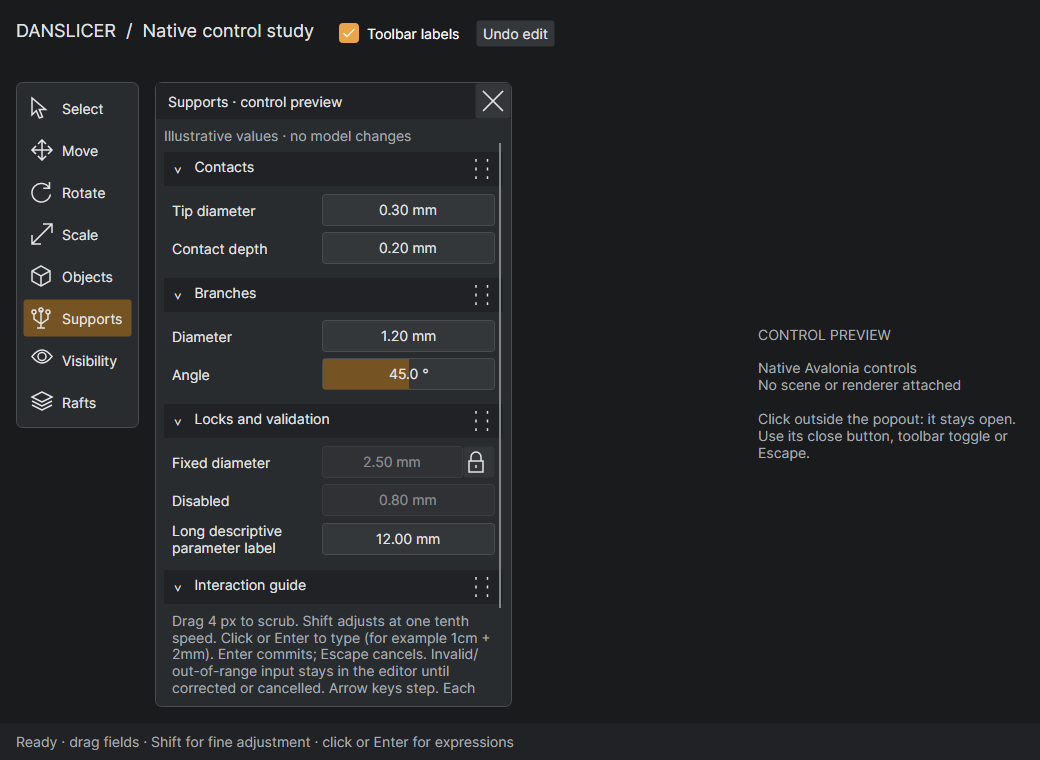
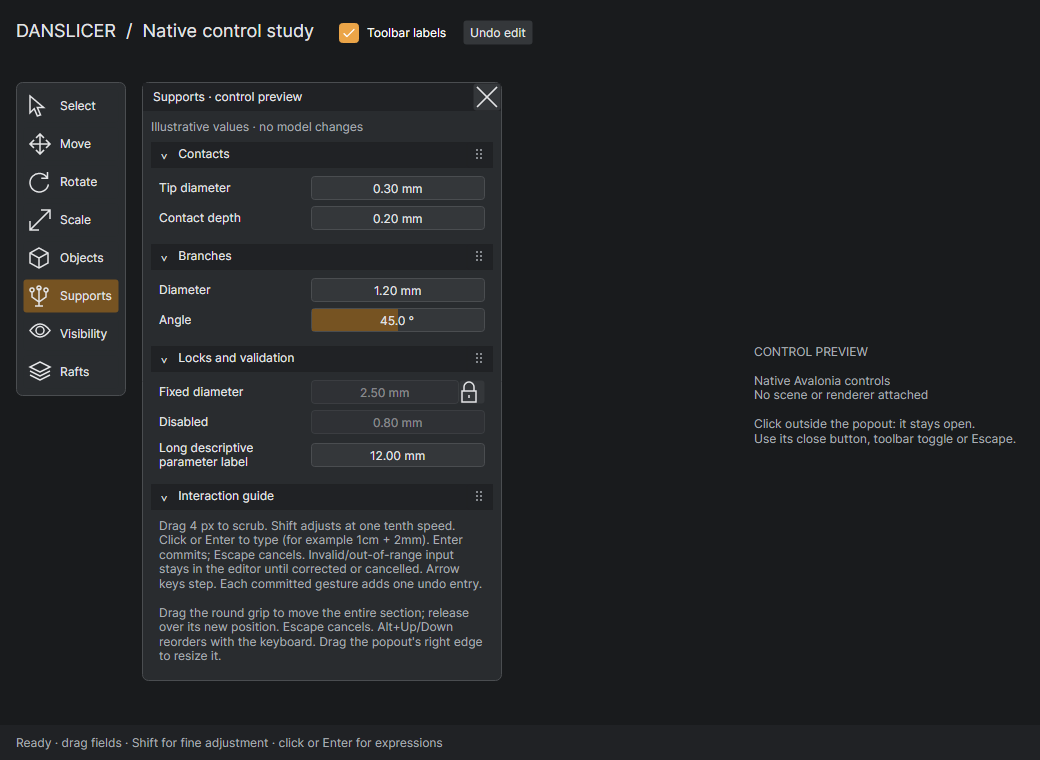
feat(ui): compact controls and add popout resizing and live expander drag

diff --git a/src/Danslicer.App/Views/UiPreviewWindow.cs b/src/Danslicer.App/Views/UiPreviewWindow.cs
@@ -24,7 +24,7 @@ public sealed class UiPreviewWindow : Window
     public UiPreviewWindow(string? captureDirectory = null)
     {
         Title = "Danslicer · UI controls preview"; Width = 1040; Height = 760; MinWidth = 480; MinHeight = 400;
-        Background = RefreshPalette.Canvas; Foreground = RefreshPalette.Text;
+        Background = RefreshPalette.Canvas; Foreground = RefreshPalette.Text; FontSize = 12;
         Resources = RefreshPalette.CreateResources();
         var root = new Grid { RowDefinitions = new RowDefinitions("Auto,*,Auto"), Background = RefreshPalette.Canvas };
         var top = new WrapPanel { Margin = new Thickness(16), Orientation = Orientation.Horizontal };
@@ -47,9 +47,16 @@ public sealed class UiPreviewWindow : Window
             Margin = new Thickness(24), Foreground = RefreshPalette.Muted, TextWrapping = TextWrapping.Wrap, MaxWidth = 270,
             IsHitTestVisible = false
         });
-        var overlay = new Grid { ColumnDefinitions = new ColumnDefinitions("Auto,*"), HorizontalAlignment = HorizontalAlignment.Left, MaxWidth = 560 };
+        var overlay = new Grid { ColumnDefinitions = new ColumnDefinitions("Auto,*"), HorizontalAlignment = HorizontalAlignment.Stretch };
         overlay.Children.Add(_toolbar); Grid.SetColumn(_popout, 1); overlay.Children.Add(_popout); viewport.Children.Add(overlay);
-        viewport.SizeChanged += (_, _) => { overlay.MaxWidth = viewport.Bounds.Width; _toolbar.MaxHeight = Math.Max(0, viewport.Bounds.Height - 32); _popout.MaxHeight = Math.Max(0, viewport.Bounds.Height - 32); };
+        void ConstrainPopout()
+        {
+            var available = Math.Max(0, viewport.Bounds.Width - _toolbar.Bounds.Width - 48);
+            _popout.MinWidth = Math.Min(240, available); _popout.MaxWidth = available;
+            _toolbar.MaxHeight = Math.Max(0, viewport.Bounds.Height - 32); _popout.MaxHeight = Math.Max(0, viewport.Bounds.Height - 32);
+        }
+        viewport.SizeChanged += (_, _) => ConstrainPopout();
+        _toolbar.SizeChanged += (_, _) => ConstrainPopout();
         foreach (var (id, label, icon) in new[] { ("select", "Select", "select"), ("move", "Move", "move"), ("rotate", "Rotate", "rotate"), ("scale", "Scale", "scale"), ("objects", "Objects", "objects"), ("supports", "Supports", "supports"), ("visibility", "Visibility", "visibility"), ("rafts", "Rafts", "rafts") })
         {
             _toolbar.AddTool(new RefreshTool(id, label, icon, () =>
@@ -77,7 +84,7 @@ public sealed class UiPreviewWindow : Window
         locks.Children.Add(Row("Disabled", disabled));
         locks.Children.Add(Row("Long descriptive parameter label", Field(12, -100, 100)));
         var help = Section("help", "Interaction guide");
-        help.Children.Add(new TextBlock { Text = "Drag 4 px to scrub. Shift adjusts at one tenth speed. Click or Enter to type (for example 1cm + 2mm). Enter commits; Escape cancels. Invalid/out-of-range input stays in the editor until corrected or cancelled. Arrow keys step. Each committed gesture adds one undo entry.\n\nDrag a section's right grip up/down to move one position. Focus the grip and use Alt+Up/Down with the keyboard.", TextWrapping = TextWrapping.Wrap, Foreground = RefreshPalette.Muted });
+        help.Children.Add(new TextBlock { Text = "Drag 4 px to scrub. Shift adjusts at one tenth speed. Click or Enter to type (for example 1cm + 2mm). Enter commits; Escape cancels. Invalid/out-of-range input stays in the editor until corrected or cancelled. Arrow keys step. Each committed gesture adds one undo entry.\n\nDrag the round grip to move the entire section; release over its new position. Escape cancels. Alt+Up/Down reorders with the keyboard. Drag the popout's right edge to resize it.", TextWrapping = TextWrapping.Wrap, Foreground = RefreshPalette.Muted });
         _popout.Body = body;
         var footer = new Border { Background = RefreshPalette.Header, Padding = new Thickness(16, 10), Child = _status };
         Grid.SetRow(footer, 2); root.Children.Add(footer); Content = root;
@@ -91,7 +98,8 @@ public sealed class UiPreviewWindow : Window
                     Directory.CreateDirectory(captureDirectory);
                     File.Delete(System.IO.Path.Combine(captureDirectory, "capture-ok.txt"));
                     File.Delete(System.IO.Path.Combine(captureDirectory, "capture-error.txt"));
-                    RunInteractionChecks(angle, locked);
+                    await RunInteractionChecks(angle, locked, captureDirectory);
+                    await Task.Delay(200);
                     foreach (var scale in new[] { 1.0, 1.5, 2.0 })
                     {
                         using var bitmap = new RenderTargetBitmap(new PixelSize((int)(root.Bounds.Width * scale), (int)(root.Bounds.Height * scale)), new Vector(96 * scale, 96 * scale));
@@ -101,13 +109,13 @@ public sealed class UiPreviewWindow : Window
                     await Task.Delay(250);
                     using var narrow = new RenderTargetBitmap(new PixelSize((int)root.Bounds.Width, (int)root.Bounds.Height));
                     narrow.Render(root); narrow.Save(System.IO.Path.Combine(captureDirectory, "preview-narrow.png"), PngBitmapEncoderOptions.Default);
-                    File.WriteAllText(System.IO.Path.Combine(captureDirectory, "capture-ok.txt"), "Native window opened. Routed pointer and keyboard checks passed: drag commits once, drag cancellation releases capture, single commit/undo, lock, expression commit, Escape cancellation, expansion, reordering and popout dismissal. Rendered at 100/150/200% pixel density, plus narrow icon toolbar. This is not a monitor DPI or physical pointer test.");
+                    File.WriteAllText(System.IO.Path.Combine(captureDirectory, "capture-ok.txt"), "Native window opened. Routed pointer and keyboard checks passed: numeric commit/cancel/lock/expression/undo, whole-section drag/reorder/cancel/settle, popout width resize/clamp/cancel, expansion and dismissal. Rendered at 100/150/200% pixel density, plus narrow icon toolbar, mid-drag and wide popout. This is not a monitor DPI or physical pointer test.");
                 }
                 catch (Exception ex) { Environment.ExitCode = 1; File.WriteAllText(System.IO.Path.Combine(captureDirectory, "capture-error.txt"), ex.ToString()); }
                 finally { Close(); }
             };
     }
-    private void RunInteractionChecks(ScrubField angle, ScrubField locked)
+    private async Task RunInteractionChecks(ScrubField angle, ScrubField locked, string captureDirectory)
     {
         static void Require(bool condition, string message) { if (!condition) throw new InvalidOperationException(message); }
         static void Key(Control control, Avalonia.Input.Key key, KeyModifiers modifiers = KeyModifiers.None)
@@ -152,10 +160,49 @@ public sealed class UiPreviewWindow : Window
         Key(grip, Avalonia.Input.Key.Down, KeyModifiers.Alt);
         Require(_sections.Children[1] == section, "Keyboard reorder failed");
         Key(grip, Avalonia.Input.Key.Up, KeyModifiers.Alt);
+        _sections.UpdateLayout();
+        position = grip.TranslatePoint(new Point(12, 12), this)!.Value;
+        var dragDistance = _sections.Children[1].Bounds.Center.Y - section.Bounds.Center.Y + 10;
+        grip.RaiseEvent(new PointerPressedEventArgs(grip, pointer, this, position, 5, pressed, KeyModifiers.None, 1));
+        grip.RaiseEvent(new PointerEventArgs(InputElement.PointerMovedEvent, grip, pointer, this, position + new Vector(0, dragDistance), 6, pressed, KeyModifiers.None));
+        Require(((TranslateTransform)section.RenderTransform!).Y == dragDistance && section.IsExpanded, "Expanded section must follow pointer with its content");
+        Capture("preview-drag.png");
+        grip.RaiseEvent(new PointerReleasedEventArgs(grip, pointer, this, position + new Vector(0, dragDistance), 7, new PointerPointProperties(RawInputModifiers.None, PointerUpdateKind.LeftButtonReleased), KeyModifiers.None, MouseButton.Left));
+        Require(_sections.Children[1] == section && pointer.Captured is null, "Pointer reorder must insert at drop position");
+        Key(grip, Avalonia.Input.Key.Up, KeyModifiers.Alt); _sections.UpdateLayout();
+        grip.RaiseEvent(new PointerPressedEventArgs(grip, pointer, this, position, 8, pressed, KeyModifiers.None, 1));
+        grip.RaiseEvent(new PointerEventArgs(InputElement.PointerMovedEvent, grip, pointer, this, position + new Vector(0, 30), 9, pressed, KeyModifiers.None));
+        Key(grip, Avalonia.Input.Key.Escape);
+        Require(_sections.Children[0] == section && pointer.Captured is null && _popout.IsVisible, "Escape must cancel reorder without closing popout");
+        await Task.Delay(200);
+        Require(((TranslateTransform)section.RenderTransform!).Y == 0, "Section must settle back into layout");
+        var resize = Avalonia.VisualTree.VisualExtensions.GetVisualDescendants(_popout).OfType<Border>()
+            .Single(b => AutomationProperties.GetName(b) == "Resize popout width");
+        var originalWidth = _popout.Width;
+        Key(resize, Avalonia.Input.Key.Right); Require(_popout.Width == originalWidth + 10, "Keyboard resize failed");
+        _popout.Width = originalWidth; _popout.UpdateLayout();
+        position = resize.TranslatePoint(new Point(3, 15), this)!.Value;
+        resize.RaiseEvent(new PointerPressedEventArgs(resize, pointer, this, position, 10, pressed, KeyModifiers.None, 1));
+        resize.RaiseEvent(new PointerEventArgs(InputElement.PointerMovedEvent, resize, pointer, this, position + new Vector(100, 0), 11, pressed, KeyModifiers.None));
+        resize.RaiseEvent(new PointerReleasedEventArgs(resize, pointer, this, position + new Vector(100, 0), 12, new PointerPointProperties(RawInputModifiers.None, PointerUpdateKind.LeftButtonReleased), KeyModifiers.None, MouseButton.Left));
+        Require(_popout.Width == originalWidth + 100 && pointer.Captured is null, "Pointer resize failed");
+        _popout.UpdateLayout(); Capture("preview-wide.png");
+        resize.RaiseEvent(new PointerPressedEventArgs(resize, pointer, this, position, 13, pressed, KeyModifiers.None, 1));
+        resize.RaiseEvent(new PointerEventArgs(InputElement.PointerMovedEvent, resize, pointer, this, position + new Vector(10000, 0), 14, pressed, KeyModifiers.None));
+        Require(_popout.Width == _popout.MaxWidth, "Resize must respect available viewport width");
+        Key(resize, Avalonia.Input.Key.Escape);
+        Require(_popout.Width == originalWidth + 100 && pointer.Captured is null, "Resize cancellation failed");
+        _popout.Width = originalWidth;
         Key(_popout, Avalonia.Input.Key.Escape); Require(!_popout.IsVisible, "Popout Escape failed");
         _popout.IsVisible = true; _selected = "supports"; _toolbar.Select(_selected);
         angle.EditCommitted -= Count; _undo.Clear();
         _status.Text = "Ready · drag fields · Shift for fine adjustment · click or Enter for expressions";
+        void Capture(string name)
+        {
+            var content = (Control)Content!;
+            using var bitmap = new RenderTargetBitmap(new PixelSize((int)content.Bounds.Width, (int)content.Bounds.Height));
+            bitmap.Render(content); bitmap.Save(System.IO.Path.Combine(captureDirectory, name), PngBitmapEncoderOptions.Default);
+        }
     }
     private StackPanel Section(string id, string title)
     {

diff --git a/src/Danslicer.App/Controls/Refresh/ToolShells.cs b/src/Danslicer.App/Controls/Refresh/ToolShells.cs
@@ -4,6 +4,9 @@ using Avalonia.Controls;
 using Avalonia.Controls.Primitives;
 using Avalonia.Input;
 using Avalonia.Layout;
+using Avalonia.Media;
+using Avalonia.Animation;
+using Avalonia.Controls.Documents;
 
 namespace Danslicer.App.Controls.Refresh;
 
@@ -30,7 +33,7 @@ public sealed class FloatingToolbar : Border
         row.Children.Add(RefreshIcons.Create(tool.Icon));
         var label = new TextBlock { Text = tool.Label, IsVisible = ShowLabels, VerticalAlignment = VerticalAlignment.Center };
         _labels.Add(label); row.Children.Add(label);
-        var button = new ToggleButton { Content = row, MinHeight = 36, HorizontalAlignment = HorizontalAlignment.Stretch, Padding = new Thickness(8), Foreground = RefreshPalette.Text };
+        var button = new ToggleButton { Content = row, FontSize = 12, MinHeight = 30, HorizontalAlignment = HorizontalAlignment.Stretch, Padding = new Thickness(6), Foreground = RefreshPalette.Text };
         AutomationProperties.SetName(button, tool.Label); ToolTip.SetTip(button, tool.Label);
         button.Click += (_, _) => tool.Execute();
         _buttons.Add(tool.Id, button); _items.Children.Add(button);
@@ -63,17 +66,44 @@ public sealed class ToolPopout : Border
     public ToolPopout()
     {
         Background = RefreshPalette.Panel; BorderBrush = RefreshPalette.Edge; BorderThickness = new Thickness(1);
-        CornerRadius = new CornerRadius(6); MaxWidth = 360; Margin = new Thickness(0, 16, 16, 16);
-        HorizontalAlignment = HorizontalAlignment.Stretch; VerticalAlignment = VerticalAlignment.Top;
+        CornerRadius = new CornerRadius(6); Width = 360; MinWidth = 240; Margin = new Thickness(0, 16, 16, 16);
+        TextElement.SetFontSize(this, 12);
+        HorizontalAlignment = HorizontalAlignment.Left; VerticalAlignment = VerticalAlignment.Top;
         var root = new Grid { RowDefinitions = new RowDefinitions("Auto,*") };
         var header = new Grid { ColumnDefinitions = new ColumnDefinitions("*,Auto"), Background = RefreshPalette.Header };
-        _title = new TextBlock { Margin = new Thickness(12, 8), VerticalAlignment = VerticalAlignment.Center, Foreground = RefreshPalette.Text };
-        var close = new Button { Content = RefreshIcons.Create("close"), Width = 36, Height = 36, Padding = new Thickness(7) };
+        _title = new TextBlock { Margin = new Thickness(10, 4), VerticalAlignment = VerticalAlignment.Center, Foreground = RefreshPalette.Text };
+        var close = new Button { Content = RefreshIcons.Create("close"), Width = 28, Height = 28, MinHeight = 0, Padding = new Thickness(6) };
         AutomationProperties.SetName(close, "Close tool settings"); ToolTip.SetTip(close, "Close (Escape)");
         close.Click += (_, _) => RequestClose();
         header.Children.Add(_title); Grid.SetColumn(close, 1); header.Children.Add(close);
         _scroll = new ScrollViewer { Margin = new Thickness(8), HorizontalScrollBarVisibility = ScrollBarVisibility.Disabled };
-        root.Children.Add(header); Grid.SetRow(_scroll, 1); root.Children.Add(_scroll); Child = root;
+        root.Children.Add(header); Grid.SetRow(_scroll, 1); root.Children.Add(_scroll);
+        var resize = new Border { Width = 6, Background = Brushes.Transparent, HorizontalAlignment = HorizontalAlignment.Right, Cursor = new Cursor(StandardCursorType.SizeWestEast), Focusable = true };
+        AutomationProperties.SetName(resize, "Resize popout width"); ToolTip.SetTip(resize, "Drag to resize; Left/Right to adjust width");
+        Grid.SetRowSpan(resize, 2); root.Children.Add(resize); Child = root;
+        Point? resizeOrigin = null;
+        double originalWidth = 0;
+        IPointer? resizePointer = null;
+        void EndResize() { resizeOrigin = null; var pointer = resizePointer; resizePointer = null; pointer?.Capture(null); }
+        resize.PointerPressed += (_, e) =>
+        {
+            if (!e.GetCurrentPoint(resize).Properties.IsLeftButtonPressed) return;
+            resize.Focus(); resizeOrigin = e.GetPosition(TopLevel.GetTopLevel(this)); originalWidth = Bounds.Width;
+            resizePointer = e.Pointer; e.Pointer.Capture(resize); e.Handled = true;
+        };
+        resize.PointerMoved += (_, e) =>
+        {
+            if (resizeOrigin is not { } start) return;
+            Width = Math.Clamp(originalWidth + e.GetPosition(TopLevel.GetTopLevel(this)).X - start.X, MinWidth, MaxWidth);
+            e.Handled = true;
+        };
+        resize.PointerReleased += (_, e) => { if (resizeOrigin is null) return; EndResize(); e.Handled = true; };
+        resize.PointerCaptureLost += (_, _) => EndResize();
+        resize.KeyDown += (_, e) =>
+        {
+            if (e.Key == Key.Escape && resizeOrigin is not null) { Width = originalWidth; EndResize(); e.Handled = true; }
+            else if (e.Key is Key.Left or Key.Right) { Width = Math.Clamp(Bounds.Width + (e.Key == Key.Left ? -10 : 10), MinWidth, MaxWidth); e.Handled = true; }
+        };
         KeyDown += (_, e) => { if (e.Key == Key.Escape && !e.Handled) { RequestClose(); e.Handled = true; } };
     }
     public void RequestClose() { IsVisible = false; CloseRequested?.Invoke(this, EventArgs.Empty); }
@@ -100,30 +130,65 @@ public sealed class ReorderableExpander : Border
     public ReorderableExpander(string id, string title)
     {
         SectionId = id; _title = title;
-        Background = RefreshPalette.Panel;
+        Background = RefreshPalette.Panel; TextElement.SetFontSize(this, 12);
         var header = new Grid { ColumnDefinitions = new ColumnDefinitions("*,Auto"), Background = RefreshPalette.Header };
-        _disclosure = new Button { HorizontalAlignment = HorizontalAlignment.Stretch, HorizontalContentAlignment = HorizontalAlignment.Left, MinHeight = 34, Padding = new Thickness(8, 4), Background = RefreshPalette.Header, Foreground = RefreshPalette.Text };
+        _disclosure = new Button { HorizontalAlignment = HorizontalAlignment.Stretch, HorizontalContentAlignment = HorizontalAlignment.Left, Height = 26, MinHeight = 0, Padding = new Thickness(8, 2), Background = RefreshPalette.Header, Foreground = RefreshPalette.Text };
         _disclosure.Click += (_, _) => IsExpanded = !IsExpanded;
-        var grip = new Button { Content = RefreshIcons.Create("grip"), Width = 34, Height = 34, Padding = new Thickness(6), Background = RefreshPalette.Header };
+        var grip = new Button { Content = RefreshIcons.Create("grip"), Width = 26, Height = 26, MinHeight = 0, Padding = new Thickness(4), Background = RefreshPalette.Header, Cursor = new Cursor(StandardCursorType.SizeAll) };
         AutomationProperties.SetName(grip, $"Reorder {title}"); ToolTip.SetTip(grip, "Drag to reorder; Alt+Up/Down");
         double? origin = null;
+        var translation = new TranslateTransform(); RenderTransform = translation;
+        IPointer? dragPointer = null;
+        bool dragging = false;
+        void Settle()
+        {
+            translation.Transitions = new Transitions { new DoubleTransition { Property = TranslateTransform.YProperty, Duration = TimeSpan.FromMilliseconds(150) } };
+            translation.Y = 0; ZIndex = 0;
+        }
+        void CancelDrag()
+        {
+            origin = null; dragging = false;
+            var pointer = dragPointer; dragPointer = null; pointer?.Capture(null); Settle();
+        }
         grip.AddHandler(PointerPressedEvent, (_, e) =>
         {
             if (!e.GetCurrentPoint(grip).Properties.IsLeftButtonPressed) return;
-            origin = e.GetPosition(this).Y; e.Pointer.Capture(grip); e.Handled = true;
+            grip.Focus(); translation.Transitions = null; translation.Y = 0;
+            origin = e.GetPosition(TopLevel.GetTopLevel(this)).Y; dragPointer = e.Pointer;
+            e.Pointer.Capture(grip); e.Handled = true;
         }, Avalonia.Interactivity.RoutingStrategies.Tunnel);
+        grip.PointerMoved += (_, e) =>
+        {
+            if (origin is not { } start) return;
+            var delta = e.GetPosition(TopLevel.GetTopLevel(this)).Y - start;
+            if (!dragging && Math.Abs(delta) < 6) return;
+            dragging = true; ZIndex = 10; translation.Y = delta; e.Handled = true;
+        };
         grip.AddHandler(PointerReleasedEvent, (_, e) =>
         {
             if (origin is not { } start) return;
-            var delta = e.GetPosition(this).Y - start;
-            origin = null; e.Pointer.Capture(null);
-            if (Math.Abs(delta) >= 6) MoveRequested?.Invoke(this, delta > 0 ? 1 : -1);
+            var delta = e.GetPosition(TopLevel.GetTopLevel(this)).Y - start;
+            origin = null; dragPointer = null; e.Pointer.Capture(null);
+            if (dragging && Parent is Panel panel)
+            {
+                var index = panel.Children.IndexOf(this);
+                var center = Bounds.Center.Y + delta;
+                var destination = index;
+                for (var i = 0; i < panel.Children.Count; i++)
+                    if (i != index && (delta > 0 ? i > index && center > panel.Children[i].Bounds.Center.Y : i < index && center < panel.Children[i].Bounds.Center.Y))
+                        destination = delta > 0 ? Math.Max(destination, i) : Math.Min(destination, i);
+                var visualY = Bounds.Y + translation.Y;
+                if (destination != index) MoveRequested?.Invoke(this, destination - index);
+                panel.UpdateLayout(); translation.Y = visualY - Bounds.Y;
+            }
+            dragging = false; Settle();
             e.Handled = true;
         }, Avalonia.Interactivity.RoutingStrategies.Tunnel);
-        grip.PointerCaptureLost += (_, _) => origin = null;
+        grip.PointerCaptureLost += (_, _) => { if (origin is not null) CancelDrag(); };
         grip.KeyDown += (_, e) =>
         {
-            if (e.KeyModifiers.HasFlag(KeyModifiers.Alt) && e.Key is Key.Up or Key.Down)
+            if (e.Key == Key.Escape && origin is not null) { CancelDrag(); e.Handled = true; }
+            else if (e.KeyModifiers.HasFlag(KeyModifiers.Alt) && e.Key is Key.Up or Key.Down)
             { MoveRequested?.Invoke(this, e.Key == Key.Up ? -1 : 1); e.Handled = true; }
         };
         header.Children.Add(_disclosure); Grid.SetColumn(grip, 1); header.Children.Add(grip);

diff --git a/src/Danslicer.App/Controls/Refresh/ScrubField.cs b/src/Danslicer.App/Controls/Refresh/ScrubField.cs
@@ -46,14 +46,15 @@ public class ScrubField : UserControl
     {
         Focusable = true;
         MinWidth = 110;
-        Height = 32;
+        Height = 24;
+        FontSize = 12;
         _fill = new Border { Background = RefreshPalette.Fill, HorizontalAlignment = HorizontalAlignment.Left, IsHitTestVisible = false };
         _label = new TextBlock { HorizontalAlignment = HorizontalAlignment.Center, VerticalAlignment = VerticalAlignment.Center, Foreground = RefreshPalette.Text, IsHitTestVisible = false };
-        _editor = new TextBox { IsVisible = false, HorizontalContentAlignment = HorizontalAlignment.Center, VerticalContentAlignment = VerticalAlignment.Center, Padding = new Thickness(4, 0), MinHeight = 28 };
+        _editor = new TextBox { IsVisible = false, HorizontalContentAlignment = HorizontalAlignment.Center, VerticalContentAlignment = VerticalAlignment.Center, Padding = new Thickness(4, 0), MinHeight = 22 };
         var layers = new Grid();
         layers.Children.Add(_fill); layers.Children.Add(_label); layers.Children.Add(_editor);
         _surface = new Border { Background = RefreshPalette.Field, BorderBrush = RefreshPalette.Edge, BorderThickness = new Thickness(1), CornerRadius = new CornerRadius(3), ClipToBounds = true, Child = layers };
-        _lock = new Button { Width = 32, Padding = new Thickness(5), IsVisible = false };
+        _lock = new Button { Width = 26, Height = 24, MinHeight = 0, Padding = new Thickness(4), IsVisible = false };
         ToolTip.SetTip(_lock, "Lock this value against editing");
         _lock.Click += (_, _) => { Cancel(); SetCurrentValue(IsLockedProperty, !IsLocked); };
         var root = new Grid { ColumnDefinitions = new ColumnDefinitions("*,Auto") };

diff --git a/src/Danslicer.App/Controls/Refresh/RefreshPalette.cs b/src/Danslicer.App/Controls/Refresh/RefreshPalette.cs
@@ -43,13 +43,26 @@ public static class RefreshIcons
         ["visibility"] = "M2,12 Q12,-1 22,12 Q12,25 2,12 Z M8,12 A4,4 0 1 0 16,12 A4,4 0 1 0 8,12",
         ["rafts"] = "M2,8 L12,3 L22,8 L12,13 Z M2,12 L12,17 L22,12 M2,16 L12,21 L22,16",
         ["close"] = "M5,5 L19,19 M19,5 L5,19",
-        ["grip"] = "M8,5 L8,7 M16,5 L16,7 M8,11 L8,13 M16,11 L16,13 M8,17 L8,19 M16,17 L16,19",
         ["lock"] = "M7,10 L7,6 A5,5 0 0 1 17,6 L17,10 M5,10 L19,10 L19,21 L5,21 Z M12,14 L12,17",
         ["unlock"] = "M7,10 L7,6 A5,5 0 0 1 17,6 M5,10 L19,10 L19,21 L5,21 Z M12,14 L12,17"
     };
-    public static Control Create(string name) => new Avalonia.Controls.Shapes.Path
+    public static Control Create(string name)
     {
-        Data = Geometry.Parse(Paths[name]), Stroke = RefreshPalette.Text, StrokeThickness = 1.5,
-        Width = 20, Height = 20, Stretch = Stretch.Uniform, IsHitTestVisible = false
-    };
+        if (name == "grip")
+        {
+            var dots = new Canvas { Width = 8, Height = 12, IsHitTestVisible = false };
+            for (var y = 0; y < 3; y++)
+                for (var x = 0; x < 2; x++)
+                {
+                    var dot = new Ellipse { Width = 2, Height = 2, Fill = RefreshPalette.Muted };
+                    Canvas.SetLeft(dot, x * 4); Canvas.SetTop(dot, y * 4); dots.Children.Add(dot);
+                }
+            return dots;
+        }
+        return new Avalonia.Controls.Shapes.Path
+        {
+            Data = Geometry.Parse(Paths[name]), Stroke = RefreshPalette.Text, StrokeThickness = 1.5,
+            Width = 20, Height = 20, Stretch = Stretch.Uniform, IsHitTestVisible = false
+        };
+    }
 }

diff --git a/docs/ui-refresh/task-01.md b/docs/ui-refresh/task-01.md
@@ -33,3 +33,16 @@ Task 02 only, in a separate coordinator-created chat/worktree from this task's f
 
 ## Final checkpoint
 Implementation committed as fef5d7dfdf70698cd7ee785470e374a2456b66c0. Staged whitespace review then detected three extra EOF blank lines; removed in the final handoff commit. RESUME now records completed work, exact launch commands and task 02 boundaries. The final documentation/whitespace descendant is the coordinator's starting ref. No semantic source changes after verification.
+
+## User refinement — compact controls, resizing and live reorder
+User requested smaller fonts/headers/text boxes, adjustable popout width, whole-expander movement during drag, and tighter round gripper dots. Implemented 12-DIP type, 26-DIP section headers, 28-DIP popout header and 24-DIP numeric fields. Grip is six 2-DIP circles on a 4-DIP grid, inside a 26-DIP hit target.
+
+Popout right edge supports pointer resize and focused Left/Right keys; Escape cancels an active resize. Preview supplies viewport-derived MaxWidth/MinWidth and retains the chosen width while toggling. Reordering translates the complete section including expanded content as the pointer moves, keeps its original layout slot until release, then inserts at the crossed section center and settles over 150 ms. Escape/capture loss cancel. MoveRequested now sends a signed positional offset (possibly multiple positions), which hosts should add to the current index. Alt+Up/Down remains one position. Neighboring sections move on drop; no live neighbor-gap animation or edge autoscroll is claimed.
+
+Validation: Release app build and 77 focused tests passed; native routed pointer/keyboard checks additionally verify live section translation, insertion, cancellation and completed settling, plus pointer/keyboard width resize, viewport clamp and cancellation. Refreshed 100/150/200-density/narrow captures and added preview-drag.png and preview-wide.png; reviewed compact, narrow, mid-drag and wide images. Physical mouse and monitor DPI checks remain manual. Debug build was blocked by the user's open preview locking its DLLs; left that process running and verified Release instead. Fixed a missing Documents namespace on the first compile attempt.
+
+Updated runnable preview (absolute path avoids launching another checkout):
+```powershell
+& "C:\Users\plane\.codex\worktrees\f60d\Danslicer-chatgpt\src\Danslicer.App\bin\Release\net10.0\Danslicer.App.exe" --ui-preview
+```
+Build/test commands use `-c Release`; capture command is `dotnet run -c Release --no-build --project src/Danslicer.App -- --ui-preview --capture-directory docs/ui-refresh/evidence`.

diff --git a/docs/ui-refresh/RESUME.md b/docs/ui-refresh/RESUME.md
@@ -1,3 +1,13 @@
+# Latest refinement checkpoint — task 01
+User refinements completed: compact typography/headers/numeric fields, resizable popout right edge, live whole-section dragging with animated settling, compact round grip dots. Release build, 77 focused tests, expanded native pointer/keyboard smoke checks pass. Latest images in evidence include mid-drag and wide popout. See task-01.md refinement note for contracts and verification limits.
+Worktree/branch unchanged: C:/Users/plane/.codex/worktrees/f60d/Danslicer-chatgpt on codex/ui-refresh. Latest handoff ref is branch HEAD after the refinement commit; prior implementation hashes below are historical. No later-task integration or main merge. Next coordinator task should start from the latest HEAD.
+The user's old Debug preview was left running; launch the updated Release executable:
+```powershell
+& "C:\Users\plane\.codex\worktrees\f60d\Danslicer-chatgpt\src\Danslicer.App\bin\Release\net10.0\Danslicer.App.exe" --ui-preview
+```
+Working tree clean after refinement commit. Rebuild with `dotnet build src/Danslicer.App -c Release -p:UsedAvaloniaProducts=`.
+
+---
 # Latest checkpoint — task 01 complete
 Date: 2026-09-10
 Current task: 01. Setup chat ID: client-new-thread:26b9541c-1fd9-4fdf-abfa-b53d59cf5ccc; finalized ID not exposed to this task.
